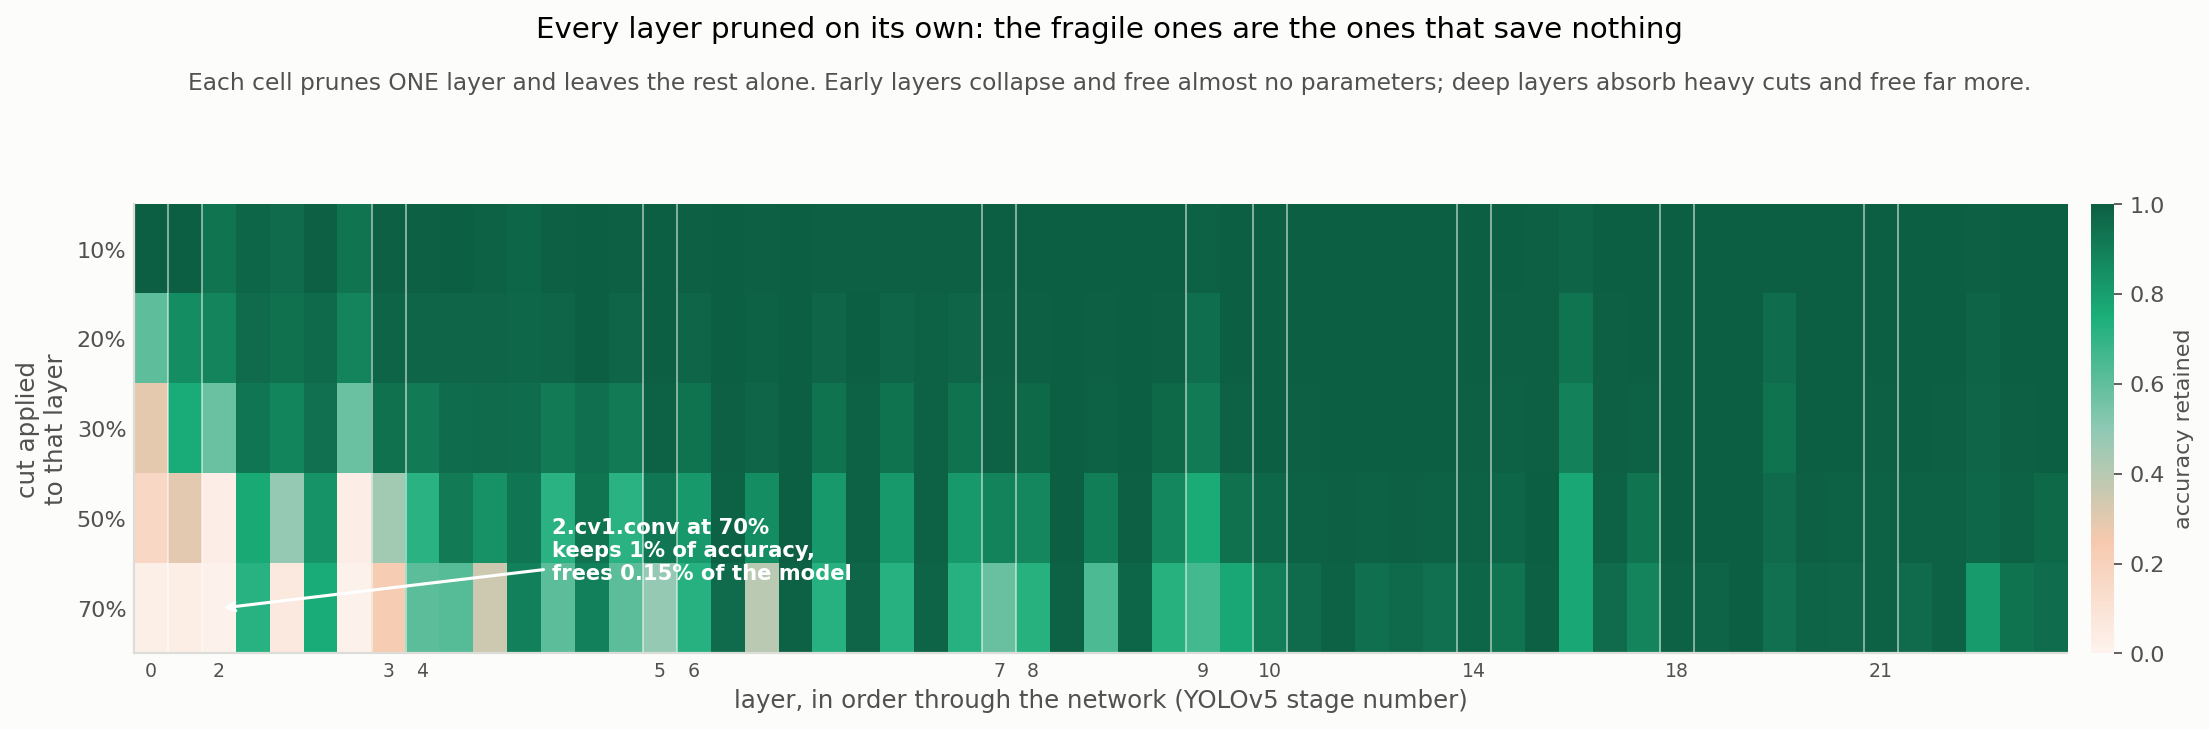
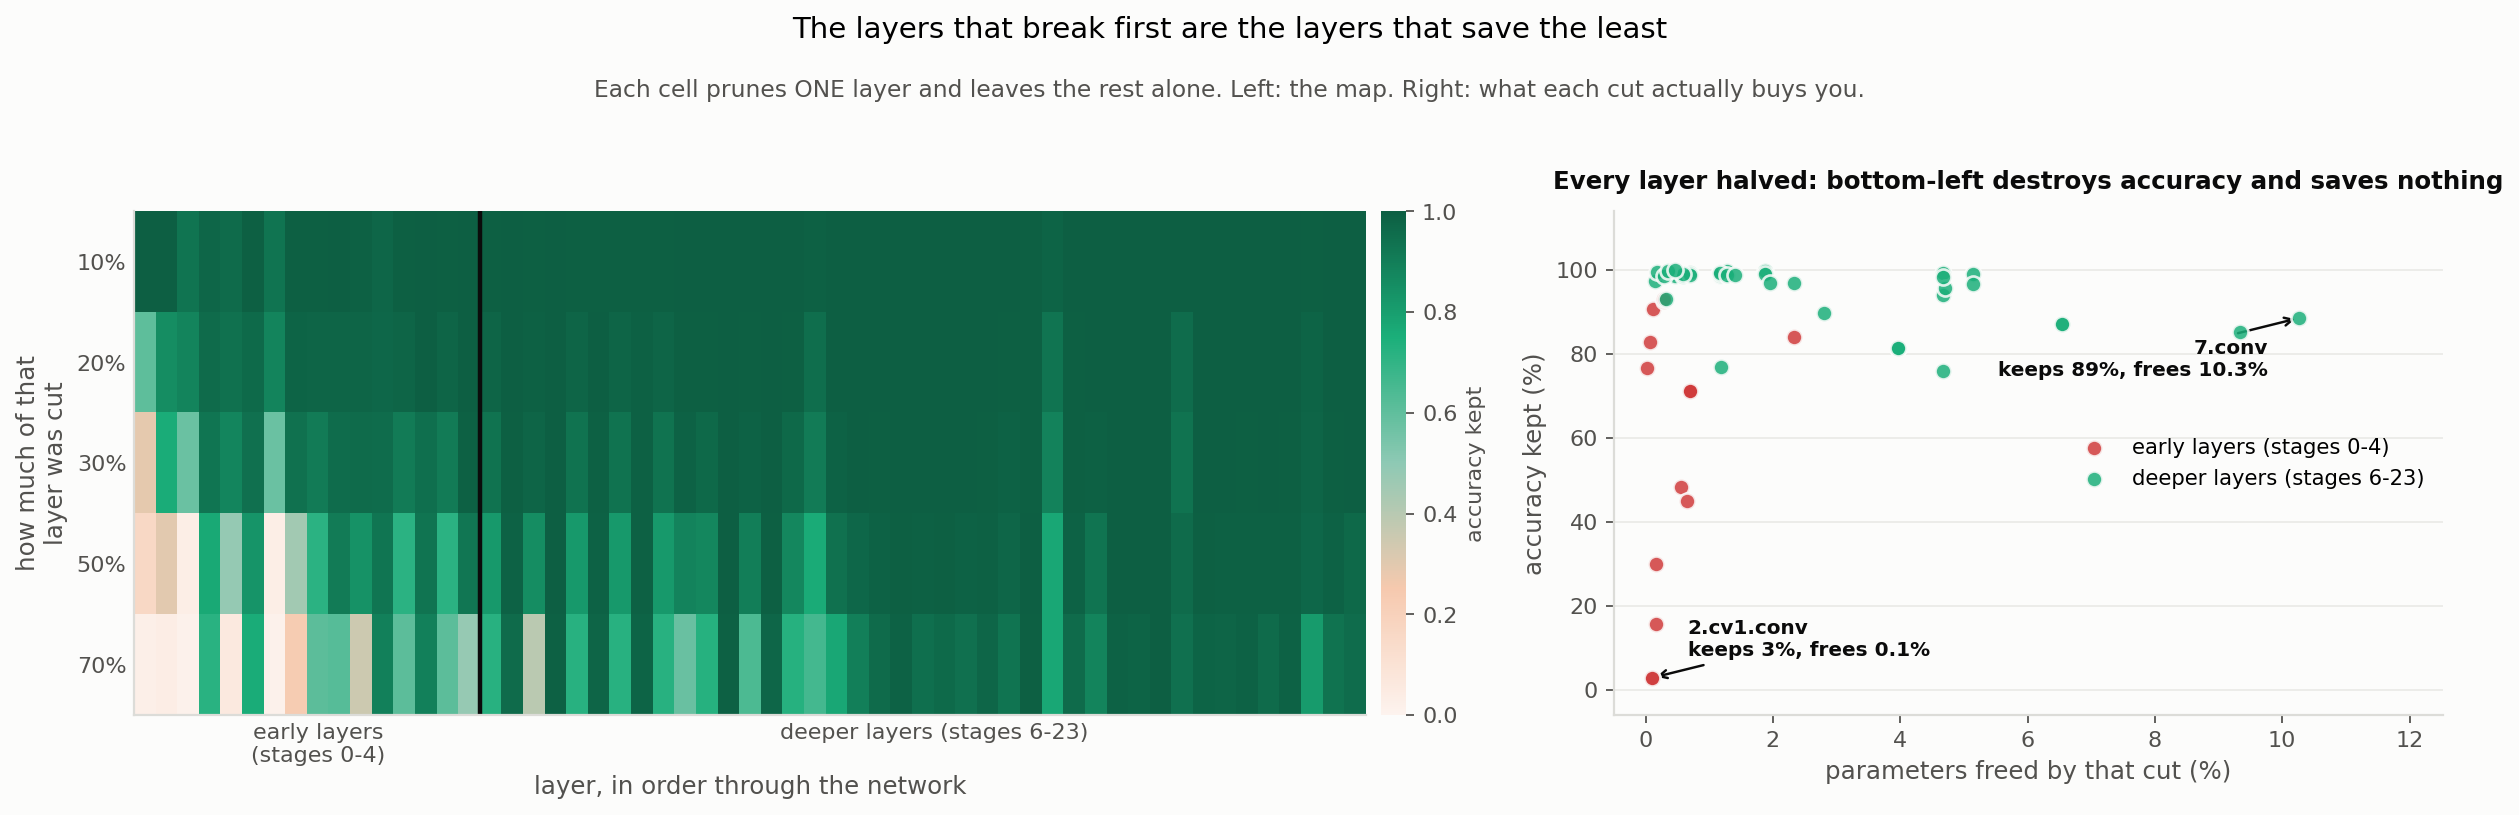
XP6 E1: add the trade-off panel, and explain how to read the figure
The heatmap showed the map but never the conclusion, so the finding had to be
inferred from a colour gradient across 57 columns. It now sits beside a scatter
of what each cut actually buys: parameters freed against accuracy kept, one dot
per layer halved. Early layers pile up against the left edge, which is the whole
argument in one glance.

The heatmap itself drops 24 stage labels for a single boundary between early and
deeper layers, since the split is what matters and the individual indices were
unreadable at that density.

The section now says how to read both panels and ends with the conclusion
outright: there is no reason to ever cut this detector's early layers, because
they are the most expensive place to take damage and the least profitable place
to save.

diff --git a/analysis/make_figures.py b/analysis/make_figures.py
@@ -598,7 +598,7 @@ def _stage(layer: str) -> int:
 
 
 def fig_xp06e1(records) -> Path | None:
-    """Where pruning damage is cheap, and where it is fatal."""
+    """Where pruning damage is cheap, where it is fatal, and what each cut buys."""
     import matplotlib.pyplot as plt
     import numpy as np
     from matplotlib.colors import LinearSegmentedColormap
@@ -608,64 +608,75 @@ def fig_xp06e1(records) -> Path | None:
         return None
 
     rows = [r for r in d["rows"] if "retained" in r]
-    layers, ratios = [], sorted({r["ratio"] for r in rows})
-    for r in rows:
-        if r["layer"] not in layers:
-            layers.append(r["layer"])
-    layers.sort(key=lambda n: (_stage(n), n))
+    ratios = sorted({r["ratio"] for r in rows})
+    layers = sorted({r["layer"] for r in rows}, key=lambda n: (_stage(n), n))
 
     grid = np.full((len(ratios), len(layers)), np.nan)
     for r in rows:
         grid[ratios.index(r["ratio"]), layers.index(r["layer"])] = min(1.0, r["retained"])
 
-    # Sequential, one hue: pale means the layer was destroyed, deep means it
-    # shrugged the cut off. Retention is a magnitude, so it never gets a rainbow.
+    # Sequential, one hue: retention is a magnitude, so it never gets a rainbow.
     cmap = LinearSegmentedColormap.from_list(
         "retained", ["#fdf3ee", "#f6c9ae", "#8ec9b4", "#1baf7a", "#0d5f43"])
 
-    fig, ax = plt.subplots(figsize=(14, 3.9))
-    fig.suptitle("Every layer pruned on its own: the fragile ones are the ones "
-                 "that save nothing", y=1.16)
-    style.subtitle(fig, "Each cell prunes ONE layer and leaves the rest alone. Early layers "
-                        "collapse and free almost no parameters; deep layers absorb heavy "
-                        "cuts and free far more.", y=1.07)
+    fig, axes = plt.subplots(1, 2, figsize=(15.5, 4.6),
+                             gridspec_kw={"width_ratios": [1.55, 1]})
+    fig.suptitle("The layers that break first are the layers that save the least", y=1.10)
+    style.subtitle(fig, "Each cell prunes ONE layer and leaves the rest alone. Left: the map. "
+                        "Right: what each cut actually buys you.", y=1.015)
 
+    # ---- panel 1: the map ------------------------------------------------
+    ax = axes[0]
     im = ax.imshow(grid, aspect="auto", cmap=cmap, vmin=0, vmax=1,
                    interpolation="nearest")
     ax.set_yticks(range(len(ratios)))
     ax.set_yticklabels([f"{r:.0%}" for r in ratios])
-    ax.set_ylabel("cut applied\nto that layer")
+    ax.set_ylabel("how much of that\nlayer was cut")
+    ax.set_xlabel("layer, in order through the network")
 
-    # Label stage boundaries rather than 57 layer names, which would be unreadable.
-    stages, seen = [], set()
-    for i, n in enumerate(layers):
-        st = _stage(n)
-        if st not in seen:
-            seen.add(st)
-            stages.append((i, st))
-    # Label every other boundary when they crowd: adjacent stages can be one
-    # layer apart and their numbers collide.
-    keep = [(i, st) for k, (i, st) in enumerate(stages)
-            if k == 0 or i - stages[k - 1][0] > 1 or k % 2 == 0]
-    ax.set_xticks([i for i, _ in keep])
-    ax.set_xticklabels([str(s) for _, s in keep], fontsize=8.5)
-    ax.set_xlabel("layer, in order through the network (YOLOv5 stage number)")
-    for i, _ in stages[1:]:
-        ax.axvline(i - 0.5, color="white", linewidth=0.8, alpha=0.55)
-
-    cb = fig.colorbar(im, ax=ax, pad=0.012, fraction=0.028)
-    cb.set_label("accuracy retained", fontsize=10)
+    # A single boundary is easier to read than 24 stage numbers: everything left
+    # of it is the early backbone, everything right of it is deeper.
+    split = next(i for i, n in enumerate(layers) if _stage(n) >= 6)
+    ax.axvline(split - 0.5, color=style.INK, linewidth=2)
+    ax.set_xticks([split / 2, split + (len(layers) - split) / 2])
+    ax.set_xticklabels(["early layers\n(stages 0-4)", "deeper layers (stages 6-23)"],
+                       fontsize=10)
+    ax.tick_params(length=0)
+    cb = fig.colorbar(im, ax=ax, pad=0.012, fraction=0.03)
+    cb.set_label("accuracy kept", fontsize=10)
     cb.outline.set_visible(False)
 
-    worst = min(rows, key=lambda r: r["retained"])
-    ax.annotate(f"{worst['layer'].replace('model.','')} at {worst['ratio']:.0%}\n"
-                f"keeps {worst['retained']:.0%} of accuracy,\n"
-                f"frees {worst['params_reduction']:.2%} of the model",
-                xy=(layers.index(worst["layer"]), ratios.index(worst["ratio"])),
-                xytext=(150, 26), textcoords="offset points", fontsize=9.5,
-                color="white", fontweight="bold", va="center",
-                arrowprops=dict(arrowstyle="->", color="white", linewidth=1.4))
-    ax.tick_params(length=0)
+    # ---- panel 2: the trade-off, which is the actual conclusion ----------
+    ax = axes[1]
+    half = [r for r in rows if abs(r["ratio"] - 0.5) < 1e-9]
+    early = [r for r in half if _stage(r["layer"]) <= 4]
+    deep = [r for r in half if _stage(r["layer"]) >= 6]
+    for grp, colour, label in ((early, style.RED, "early layers (stages 0-4)"),
+                               (deep, style.AQUA, "deeper layers (stages 6-23)")):
+        ax.scatter([100 * r["params_reduction"] for r in grp],
+                   [100 * min(1, r["retained"]) for r in grp],
+                   s=52, color=colour, alpha=0.85, edgecolor=style.SURFACE,
+                   linewidth=1.2, label=label, zorder=4)
+
+    worst = min(half, key=lambda r: r["retained"])
+    best = max(half, key=lambda r: r["params_reduction"])
+    for r, dx, dy, ha in ((worst, 16, 10, "left"), (best, -14, -26, "right")):
+        ax.annotate(f"{r['layer'].replace('model.', '')}\n"
+                    f"keeps {r['retained']:.0%}, frees {r['params_reduction']:.1%}",
+                    (100 * r["params_reduction"], 100 * min(1, r["retained"])),
+                    xytext=(dx, dy), textcoords="offset points", fontsize=9,
+                    color=style.INK, fontweight="bold", ha=ha,
+                    arrowprops=dict(arrowstyle="->", color=style.INK, linewidth=1.1))
+
+    ax.set_xlabel("parameters freed by that cut (%)")
+    ax.set_ylabel("accuracy kept (%)")
+    ax.set_title("Every layer halved: bottom-left destroys accuracy and saves nothing",
+                 fontsize=11, pad=10)
+    ax.set_xlim(-0.5, 100 * max(r["params_reduction"] for r in half) * 1.22)
+    ax.set_ylim(-6, 114)
+    ax.legend(loc="center right", fontsize=9.5)
+    style.tidy(ax)
+
     fig.tight_layout()
     return save(fig, "xp06e1_sensitivity.png")
 

diff --git a/experiments/xp06_pruning/README.md b/experiments/xp06_pruning/README.md
@@ -59,18 +59,34 @@ Each section below is one experiment. The unpruned model is the top row of every
 
 ## E1. Which layers can be cut
 
-Prune one layer, leave the rest alone, measure, move on. 57 layers x 5 depths, on the
-**validation** split, since its output chooses a configuration and test has to stay clean.
+Prune one layer, leave the other 56 alone, measure, put it back, move on. 57 layers x 5 depths
+of cut, on the **validation** split, since the result chooses a configuration and test has to
+stay clean.
 
 ![Every layer pruned on its own](../../results/figures/xp06e1_sensitivity.png)
 
-**The layers that break first are the ones that save the least.** Halving the first convolution
-costs 84% of the accuracy and frees 0.16% of the model; halving `model.21.conv` costs 0.9% and
-frees 5.13%. Early layers keep 59% of accuracy under a 50% cut, late layers keep 94%.
+**How to read it.** On the left, every column is one layer and every row is how hard that single
+layer was cut. Dark green means the network barely noticed, pale means it fell over. The black
+line separates the early layers from the deeper ones. On the right, each dot is one layer
+halved: how much of the model that freed, against how much accuracy survived. **Good cuts are
+top-right. Bottom-left means you destroyed the detector and saved nothing.**
 
-A single global threshold ranks channels by size and cannot see any of this, so part of its
-budget lands where the trade is catastrophic. That is the mechanism behind the original
-collapse.
+Two things jump out, and the second is the useful one.
+
+**Fragility follows depth.** Early layers go pale as soon as you cut them; deeper layers stay
+dark green even at 70%. Stages 0 to 4 keep 59% of accuracy under a 50% cut, stages 6 to 23 keep
+94%.
+
+**The fragile layers are also the ones with nothing to give.** Every red dot is jammed against
+the left edge of the right-hand panel: halving the first convolution frees **0.16%** of the
+model and costs **84%** of the accuracy. Halving `model.21.conv` costs **0.9%** and frees
+**5.13%**. That is fifty times the saving for a hundredth of the damage.
+
+**Conclusion.** There is no reason to ever cut the early layers of this detector. They are the
+most expensive place to take damage and the least profitable place to save. A single global
+threshold ranks channels by weight size and knows none of this, so part of its budget lands
+exactly there, which is what produced the original collapse. E6 tests whether acting on this map
+is enough to fix it.
 
 ## E2. Which channels to pick
 
